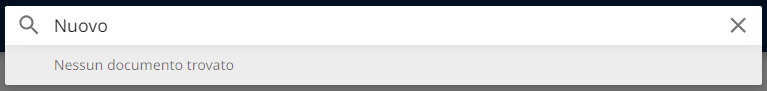
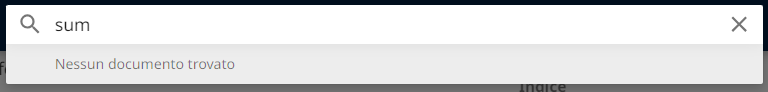
Aggiunte nuove pagine, sistemata home con divieto di accesso, nuove immagini

diff --git a/docs/it/Designer/Designer.md b/docs/it/Designer/Designer.md
@@ -1,0 +1,51 @@
+# Il Designer
+
+
+Il Designer e Costruttore di Flussi del BPM è uno strumento grafico e interattivo che consente agli utenti di progettare, modellare e ottimizzare i processi aziendali attraverso un'interfaccia visiva. Si tratta di un ambiente di sviluppo no-code o low-code pensato per trasformare procedure complesse in flussi di lavoro organizzati e automatizzati.
+
+## Creare un processo
+
+Un processo, chiamato anche Workflow, è un diagramma di flusso dove ogni forma o immagine che lo compone svolge una determinata azione.  
+
+Tramite il Designer è possibile disegnare tali processi.  
+
+Creare un nuovo modello di processo è semplice: basta recarsi nel pannello delle impostazioni in alto a sinistra, poi cliccare la voce **Modelli di Processo** ed infine cliccare **Nuovo modello di processo**.
+
+![Creazione di un Modello](../../assets/nuovoModello.png "Creazione di un Modello")
+
+## Gli strumenti del Designer
+
+Gli strumenti del Designer sono suddivisi in più sezioni: una barra superiore, una sidebar di sinistra, chiamata Designer Tools e una sidebar di destra, contenente tutti gli attributi di un elemento.
+
+Nella barra superiore troviamo:  
+
++ **Nuovo**, per creare un nuovo modello.
++ **Apri**, per importare un modello da una repository o da un file locale.
++ **Salva**, in una repository, in locale o, se si volesse salvare il disegno del processo, come immagine.
++ **Pubblica**, le modifiche apportate al modello, una volta salvate, per essere esportate ai processi attivi vanno pubblicate.
++ **Duplica**, viene creata una copia del modello in modifica.
++ **Stampa o Esporta**, similmente al salvataggio come immagine, qui il modello viene stampato fisicamente o virtualmente in versione PDF.
++ **Ricerca oggetti**, tramite una textbox, vengono evidenziati gli elementi la cui descrizione coincide col testo scritto al suo interno.
++ **Verifica Workflow**, tramite un popup vengono elencate gli avvertimenti e gli errori all'interno del processo corrente.
+
+Nella sidebar di sinistra abbiamo una serie di strumenti per disegnare il processo.
+
+Nella sidebar di destra si trovano tutti gli attributi relativi all'elemento attualmente selezionato.
+
+Gli approfondimenti sugli elementi del Designer Tools e i loro attributi si trovano nella sezione [Designer Tools e Pannello Attributi](../Designer/DesignerTools-Attributes.md).
+
+## Costruire un modello di processo
+
+Dalla sidebar di sinistra, trascinando un oggetto sul canvas, esso verrà disegnato nel processo.
+
+Queste attività possono o devono essere collegate tra loro. Ogni singola attività ha delle proprietà. Alcune di esse sono comuni a tutte le attività, mentre altre sono specifiche per le singole attività.  
+
+Ogni elemento va collegato col precendente o con se stesso tramite i **Link**, delle frecce che indicano i vari percorsi che il processo può instradare.  
+
+Selezionando uno degli oggetti disegnati, sulla destra si aprirà il pannello degli attributi ad esso riferiti.  
+In caso di chiusura accidentale, è possibile riaprire tale pannello premendo F4.  
+
+Nella maggior parte dei casi, un flusso ha un inizio e almeno una fine.
+
+
+L'inizio può essere sovrascritto: cliccando tasto destro su un elemento presente sul canvas, dal menù contestuale si può scegliere l'opzione **Imposta come oggetto di avvio**. Così facendo il flusso inizierà dall'elemento impostato come oggetto di avvio.

diff --git a/docs/it/Designer/DesignerTools-Attributes.md b/docs/it/Designer/DesignerTools-Attributes.md
@@ -1,0 +1,48 @@
+# Designer Tools e Pannello Attributi
+
+In questa pagina verranno descritte dettagliatamente tutte le sezioni e gli elementi al loro interno.  
+
+Il Designer Tools è il pannello che si trova sulla sinistra, mentre il Pannello Attributi si apre una volta che viene selezionato un elemento presente sul canvas.  
+
+## Designer Tools
+Il Designers Tools è suddiviso in 6 sezioni.  
+
+Alla sommità è situata la search bar. Digitando al suo interno è possibile filtrare gli oggetti delle varie sezioni. I risultati della ricerca appariranno nella propria sezione. Se più oggetti corrispondono col termine ricercato, verranno mostrati nelle proprie sezioni, se diverse, collassate.
+
+### Attività
+
+Sezione contenente i principali elementi di un flusso.
+
+#### Puntatore
+
+Cliccandolo, riporta le funzionalità del mouse a quelle standard: click per tasto sinistro e menù contestuale per tasto destro.  
+
+Non essendo trascinabile nel canvas e, quindi, **non essendo un elemento**, non possiede attributi.
+
+#### Link
+
+Il link è un collegamento tra un elemento e un altro.  
+
+Una volta selezionato dal Designer Tools, passando il cursore sopra un elemento, appariranno dei cerchi gialli. Selezionando un cerchio e tenendo premuto il tasto sinistro, inizierà il tracciamento del link.  
+
+Mentre si sta tracciando, passando il cursore su un elemento differente dal primo, è possibile collegarlo ad uno dei punti del destinatario.
+
+![](../../assets/Linking.gif)
+
+Fatto ciò, i due elementi saranno collegati: spostandoli all'interno del canvas, il link rimarrà ancorato ad essi.  
+
+Cliccando sul collegamento con il tasto destro del mouse, si aprirà il menù di contesto contenente una lista di proprietà:
+
+* Nome Collegamento, aprirà un dialog dove poter inserire il nome del link che verrà mostrato nel canvas.
+* Percorso per Pianificazione, se spuntato, il processo, al suo inizio, riterrà il collegamento come percorso default per determinare le attività future.
+* Condizioni Abilitazione, complementari al Percorso per Pianificazione, le condizioni di abilitazione decidono se un Link sia percorribile o meno. Tale decisione è basata sulle formule scritte nel dialog che si apre una volta cliccata l'opzione.
+* Imposta variabili, è possibile impostare delle variabili quando il link viene attraversato, arrivando a destinazione coi nuovi valori assegnati.
+* Tipo Linea, è possibile decidere tra le varie opzioni il comportamento del link all'interno del canvas.
+* Elimina Collegamento
+
+Nel pannello degli attributi di un link inoltre sono disponibili tutte le caratteristiche legate al font del nome di un collegamento.  
+
+#### Start
+
+Lo Start è il punto di inizio di ogni flusso manualmente azionato.  
+

diff --git a/docs/en/index.md b/docs/en/index.md
@@ -1,0 +1,44 @@
+---
+title: BPM Docs
+---
+
+# BPM Documentation
+
+In this Wiki, you can find the information you need to:
+
+* Solve a problem
+* Discover functionalities you require
+* Make your workflows more efficient
+* Understand the main features of the tool
+
+To request the addition of a specific topic to this Wiki, [create an issue on the appropriate GitHub repository](https://github.com/centrosoftware-dev/bpm-docs/issues).
+
+## How the search works
+Since this Wiki is hosted on GitHub Pages, we cannot rely on search engines to browse it and find what we need.  
+The search feature is, therefore, the best tool for navigating the documentation.
+
+### How to correctly use the search function
+To better explain how the search works, we will use an example.  
+Suppose you need to search for the following code of a sub-procedure:
+
+```vb.net title="btnNuovo_Click" linenums="1"
+Private Sub btnNuovo_Click(sender As Object, e As EventArgs) Handles btnNuovo.Click
+```
+
+The search will yield results as long as you enter the beginning of a word as text.
+
+![Correct Search](../assets/ricercaCorretta.png "Search performed correctly")
+
+N.B. A "word" is defined as any sequence of characters found between two empty spaces.
+
+For instance, if you were to search for the code above by entering the word "Nuovo" in the search bar, you would not get any results, as "Nuovo" is not the beginning of a word.
+
+![Incorrect Search](../assets/ricercaErrata.png "Search performed incorrectly")
+
+### How to know which terms to search for
+Unfortunately, the only way is trial and error, using the most relevant words for the topic you want to search for.
+
+> Damn programmers: you really want to make yourselves hated! :angry_face_flat:
+
+Unfortunately, this is our burden.  
+For any questions about functionalities, problems, and errors, contact me on Microsoft Teams (mandreoli), via Email (mandreoli@centrosoftware.com), or simply by opening an issue on the [documentation GitHub repository](https://github.com/centrosoftware-dev/bpm-docs/issues).

diff --git a/docs/it/index.md b/docs/it/index.md
@@ -1,0 +1,44 @@
+---
+title: BPM Docs
+
+
+---
+# Documentazione BPM
+![Divieto d'accesso](../assets/divietoAccesso.png)
+# **SITO IN COSTRUZIONE**
+
+Questa documentazione aiuta a:
+
+* Risolvere una problematica
+* Scoprire funzionalità di cui si ha bisogno
+* Rendere più efficienti i tuoi workflow
+* Capire il funzionamento delle feature dello strumento
+
+Per richiedere l'aggiunta di uno specifico argomento, [scrivi una issue a riguardo sul GitHub apposito](https://github.com/centrosoftware-dev/bpm-docs/issues).
+
+## Come funziona la ricerca
+In quanto questa documentazione è hostata sulle pagine di GitHub, non è possibile avvalersi dei motori di ricerca per scandagliarla e trovare ciò che si cerca.
+La ricerca, quindi, è lo strumento migliore per navigare la documentazione.
+
+### Come utilizzare correttamente la funzione di ricerca
+Per descrivere al meglio il funzionamento della ricerca verrà mostrato un esempio.  
+Si ha la necessità di ricercare il seguente testo:
+
+``` title="Testo in questione" linenums="1"
+Lorem ipsum dolor sit amet
+```
+
+La ricerca darà risultati affinché inseriremo l'inizio di una parola.
+
+![Ricerca Corretta](../assets/ricercaCorretta.png "Ricerca fatta nel modo corretto")
+
+N.B. per parola è intesa una qualsiasi successione di caratteri che si trova tra due spazi vuoti.  
+
+Infatti, se si cercasse  nella barra la parola "sum", non si otterrebbero risultati, in quanto "sum" non è l'inizio di una parola.
+
+![Ricerca Errata](../assets/ricercaErrata.png "Ricerca fatta in modo errato")
+
+### Come sapere quali termini cercare 
+Purtroppo, l'unico modo è provare per tentativi, utilizzando le parole più significative dell'argomento da cercare.
+ 
+Per ogni dubbio su funzionalità, problemi ed errori, contattatemi su Microsoft Teams (mandreoli), per Email (mandreoli@centrosoftware.com) o più semplicemente aprendo una issue sul [GitHub della documentazione](https://github.com/centrosoftware-dev/bpm-docs/issues).

diff --git a/docs/en/glossario.md b/docs/en/glossario.md
@@ -1,0 +1,6 @@
+# Glossario
+
+In questa pagina è possibile trovare la definizione di:
+
+* termini tecnici e specifici al BPM
+* termini derivati da prestiti linguistici

diff --git a/docs/it/glossario.md b/docs/it/glossario.md
@@ -1,0 +1,6 @@
+# Glossario
+
+In questa pagina è possibile trovare la definizione di:
+
+* termini tecnici e specifici al BPM
+* termini derivati da prestiti linguistici
